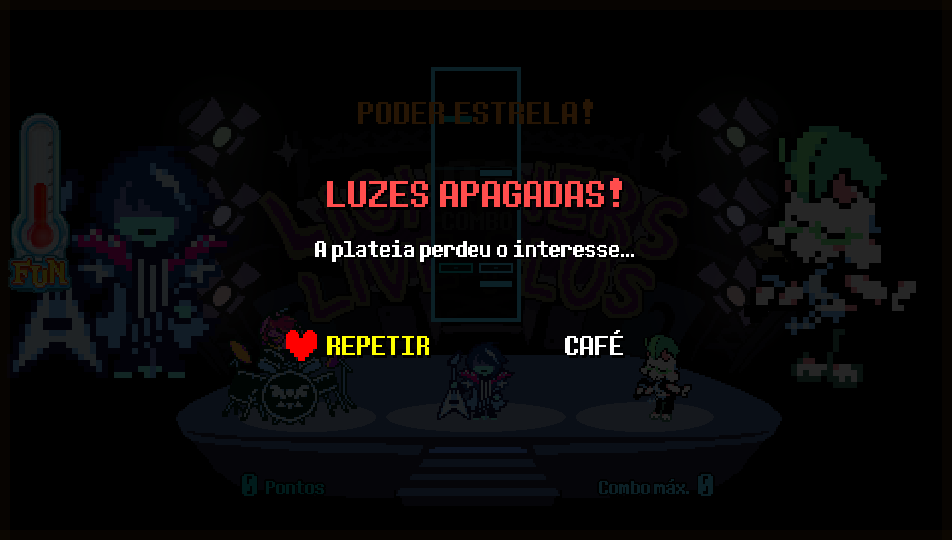
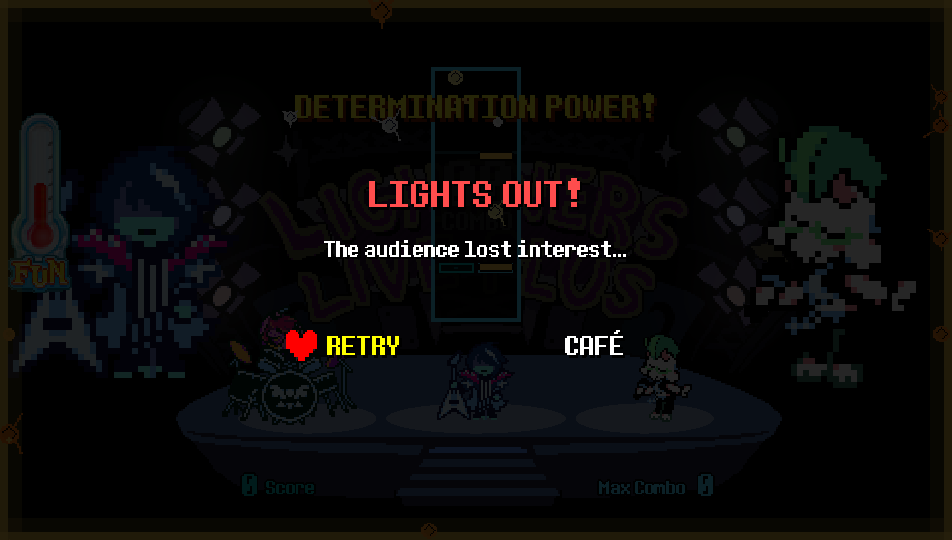
Add original vs. Vita comparison, new animations and screenshots

diff --git a/README.md b/README.md
@@ -53,7 +53,33 @@ _If you enjoy my work, consider supporting the development!_
 <p align="center">
   <img src="assets/gifs/boot_intro.gif" width="45%" alt="Game boot: Chapter 3 opening to the title menu">
   <img src="assets/gifs/song_start.gif" width="45%" alt="Starting a song: song select and show opening">
+  <br>
+  <img src="assets/gifs/determination_power.gif" width="45%" alt="Determination Power">
 </p>
+
+## Original game vs. PS Vita port
+
+The songs, charts, scoring and save data are the original game's. What changes is everything around them: the original was made for keyboard, mouse and a PC screen, and its interface relies on drawing features the Vita renderer does not have. The port rebuilds those screens in a Deltarune style and adds a show around each song, inspired by the Lightners Live stage in DELTARUNE Chapter 3.
+
+| | Original (PC) | PS Vita port |
+| :--- | :--- | :--- |
+| **Boot** | Starts straight in the café | Recreation of the first Lightners Live stage from Chapter 3, then a title menu (Start Game / Options / Credits) |
+| **Welcome notes** | Long text panels | Short lines from Tenna in a Deltarune text box, with his voice |
+| **Settings** | One panel with sliders | Tabbed Options (Audio, Game, Controls, Data) opened after a dialog with Swatch; brightness, Fun-O-Meter position, big characters and language |
+| **Song select** | Scrolling text list | Chapter tabs on L / R, SOUL cursor, cover, full-combo colours, **Best Songs** and **My Best Songs** (favourites with SELECT) |
+| **Starting a song** | Song starts right away | The stage starts dark, the band is lit one by one, the crowd reacts and Tenna announces the song |
+| **During a song** | Score and combo | Chapter 3 Fun-O-Meter, **Determination Power** (double points), Lights Out on a failed show, Select pauses, Triangle exits |
+| **End of a song** | Score text over the chart | Blue starry results screen with Retry / Café / Next song, with the audience applauding |
+| **Languages** | English | English, Spanish and Brazilian Portuguese |
+| **Loading** | ~1,600 loose files | One `game.pck` |
+
+<p align="center"><b>Welcome notes</b><br><img src="assets/compare/welcome.png" width="90%" alt="Welcome notes: original vs. Vita"></p>
+<p align="center"><b>Settings</b><br><img src="assets/compare/settings.png" width="90%" alt="Settings: original vs. Vita"></p>
+<p align="center"><b>Song select</b><br><img src="assets/compare/song_select.png" width="90%" alt="Song select: original vs. Vita"></p>
+<p align="center"><b>Credits and creator links</b><br><img src="assets/compare/credits.png" width="90%" alt="Credits: original vs. Vita"></p>
+<p align="center"><b>Gameplay</b><br><img src="assets/compare/gameplay.png" width="90%" alt="Gameplay: original vs. Vita with Determination Power"></p>
+
+<p align="center"><em>Original screens captured from the PC game data; on the Vita, the original panels and sliders do not render at all.</em></p>
 
 ## Screenshots
 
@@ -75,6 +101,9 @@ _If you enjoy my work, consider supporting the development!_
   <br>
   <img src="assets/screenshots/paused.png" width="45%" alt="Pause">
   <img src="assets/screenshots/lights_out.png" width="45%" alt="Lights out">
+  <br>
+  <img src="assets/screenshots/my_best_songs.png" width="45%" alt="My Best Songs">
+  <img src="assets/screenshots/custom_maps.png" width="45%" alt="Custom maps">
 </p>
 
 <p align="center"><em>Captured from the Vita game data running on the PC test build (960 × 544).</em></p>
@@ -87,15 +116,15 @@ The Vita renderer only draws rectangles and textured sprites, so every new scree
 
 - **Opening:** the dark stage, one spotlight per band member, Susie and Ralsei's lines with their Chapter 3 voices, the crowd, the bell and Tenna's "ROCK CONCERT" entrance.
 - **Title menu:** Start Game, Options and Credits with the red SOUL as the cursor and Deltarune menu sounds.
-- **Options:** tabbed screen (Audio, Game, Controls, Data) for volumes, latency offset, vibration and button prompts. Talking to Swatch in the café opens it after a short dialog.
+- **Options:** tabbed screen (Audio, Game, Controls, Data) for volumes, latency offset, brightness, Fun-O-Meter position, big characters, language and button prompts. Talking to Swatch in the café opens it after a short dialog.
 - **Welcome messages:** Tenna delivers the first-time and update notes as dialog instead of text panels.
 - **Song select:** chapter tabs on L / R, the SOUL cursor, cover art, difficulty, composer, best score with full-combo colours and the cover-music toggle.
 - **The show:** every song opens on the real stage like the first Lightners Live in Chapter 3 (band in silhouette, spotlights, crowd, Tenna's announcement), with Tenna's tutorial on the first play.
-- **Fun-O-Meter:** the Chapter 3 meter fills with good playing; at half, Star Power turns the notes orange for double points.
+- **Fun-O-Meter:** the Chapter 3 meter fills with good playing and drains on misses; once it is high enough, Square triggers the **Determination Power**: glowing notes and screen edges and double points for a few seconds.
 - **Results:** a blue starry results screen with Retry / Café / Next song, while the Chapter 3 audience applauds.
 - **Lights out:** if missed notes empty the Fun-O-Meter, the song stops and the crowd reacts.
 - **Pause:** Select freezes the song; Triangle exits.
-- **Best Songs:** a tab with ten standout DELTARUNE tracks.
+- **Best Songs / My Best Songs:** a tab with ten standout DELTARUNE tracks, and a tab with the player's favourites (SELECT on any song).
 - **Languages:** English, Spanish and Brazilian Portuguese, switchable in Options.
 
 This is an **unofficial fan project**, not affiliated with or endorsed by EzioEagle, Toby Fox, Sony, or the Godot Engine project.
@@ -110,9 +139,9 @@ This is an **unofficial fan project**, not affiliated with or endorsed by EzioEa
 | Cross | Confirm / interact |
 | Circle | Back (hold to run in the café) |
 | L / R (menus) | Switch tabs |
-| Square | Cover music toggle (song select) / Star Power (during a song) |
+| Square | Cover music toggle (song select) / Determination Power (during a song) |
 | Triangle (hold) | Return to the café during a song |
-| Select | Pause / continue during a song |
+| Select | Pause / continue during a song; add or remove a favourite in the song select |
 
 ## Current development priorities
 

diff --git a/docs/PORT_STATUS.md b/docs/PORT_STATUS.md
@@ -16,7 +16,9 @@ These are development tests, not guarantees about a release build.
 | Show opening / ending | Under test | Tenna announces each song; audience applause at the end |
 | Custom maps | Under test | Same interface as the song select |
 | Languages | Under test | English, Spanish and Brazilian Portuguese |
-| Fun-O-Meter / Star Power | Under test | Double points shown as a bonus; saved high scores unchanged |
+| Fun-O-Meter / Determination Power | Under test | Double points on screen and as a bonus; saved high scores unchanged |
+| Favourites | Under test | My Best Songs tab, SELECT to add or remove |
+| Pause / Lights Out | Under test | Select pauses the whole song; an empty Fun-O-Meter ends the show |
 | Results screen | Under test | Blue results screen with Retry / Café / Next song |
 | Public downloadable build | Not available | No game files are distributed |
 
